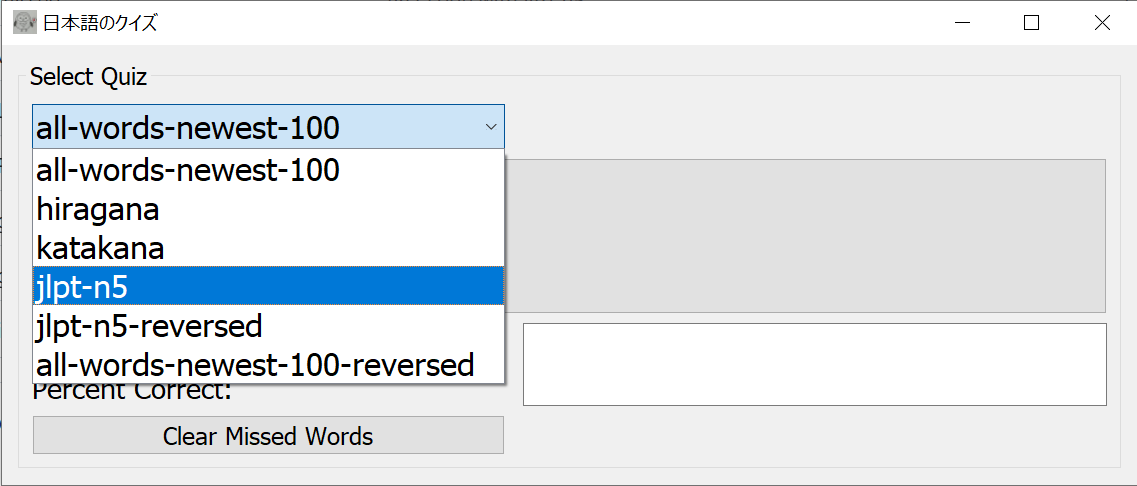
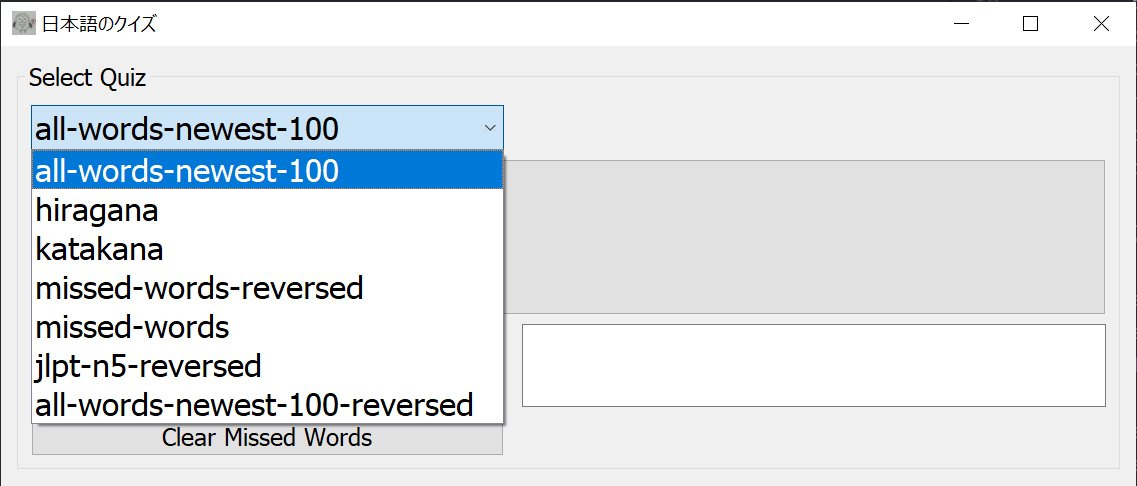
fixes

diff --git a/ginga-quiz.py b/ginga-quiz.py
@@ -90,7 +90,7 @@ class Quiz(QtWidgets.QWidget):
         self.select.addItem('all-words-newest-100')
         for i in self.alphabet_name:
             self.select.addItem(i)
-        for i in self.vocab_name:
+        for i in self.missed_name:
             self.select.addItem(i)
         for i in self.vocab_name:
             temp = i + '-reversed'
@@ -150,11 +150,13 @@ class Quiz(QtWidgets.QWidget):
             writer.writerow(['english', 'kanji', 'meaning'])
             # placeholder row so that the quiz will load
             writer.writerow(['a', 'b', 'c'])
+            writer.writerow(['a', 'b', 'c'])
 
         with open(self.missed_words_reversed, 'w') as writeFile:
             writer = csv.writer(writeFile)
             writer.writerow(['english', 'kanji', 'meaning'])
             # placeholder row so that the quiz will load
+            writer.writerow(['a', 'b', 'c'])
             writer.writerow(['a', 'b', 'c'])
 
     def selectActivated(self, text):
